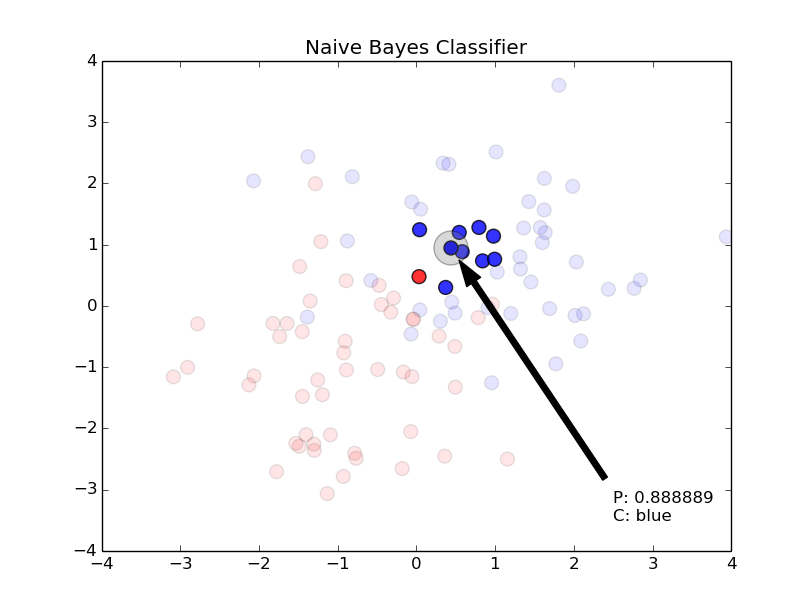
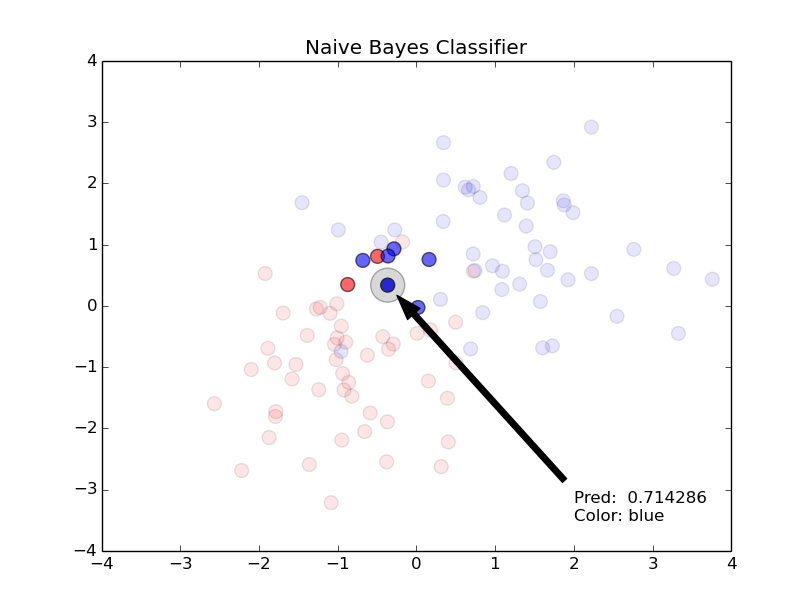
Replaced image

diff --git a/bayes.py b/bayes.py
@@ -70,7 +70,7 @@ for trips in data:
     # Plot in radius points
     if(inBayesRange(point, trips)):
         plt.scatter(trips[0], trips[1], s=drawSize,
-                    c=getColor(trips[2]), alpha=0.8)
+                    c=getColor(trips[2]), alpha=0.6)
     # Plot out of radius points
     else:
         plt.scatter(trips[0], trips[1], s=drawSize,
@@ -80,7 +80,7 @@ plt.scatter(point[0], point[1], s=drawSize,
             c=getPredictionColor(point), alpha=1.0)
 plt.scatter(point[0], point[1], s=drawSize * 6, c='gray', alpha=0.3)
 
-axes.annotate("P: {:f} \nC: {}".format(getPrediction(point), getPredictionColor(point)), xy=point, xytext=(2.5, -3.5),
+axes.annotate("Pred:  {:f}\nColor: {}".format(getPrediction(point), getPredictionColor(point)), xy=point, xytext=(2, -3.5),
             arrowprops=dict(facecolor='black', shrink=0.05))
 
 
